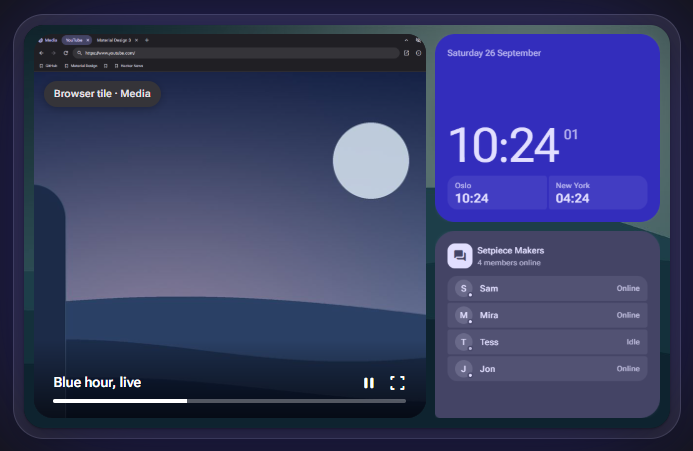
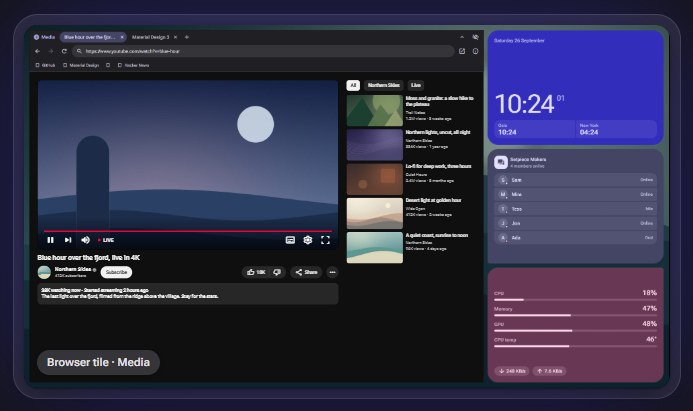
Rebuild the fullscreen demo at real 1080p scale
The demo mixed scales: the browser toolbar was shrunk while widgets were
blown up. It is now a 1920 x 1080 desktop laid out in real pixels (16px
margin, 12px gaps) and scaled as one piece, with the toolbar and widgets
captured at their exact tile sizes. The browser tile shows a video watch
page in the familiar YouTube layout, and going fullscreen letterboxes the
player inside the tile or across the display. Labels are smaller and no
longer cover content; README stills are regenerated.

diff --git a/docs/site.css b/docs/site.css
@@ -178,48 +178,97 @@ section { position: relative; }
 .checks strong { color: var(--on-surface); }
 .checks .ms { flex-shrink: 0; display: grid; place-items: center; width: 40px; height: 40px; border-radius: var(--shape-md); background: var(--secondary-container); color: var(--on-secondary-container); font-size: 20px; }
 
-/* The fullscreen demo. Geometry is in % of a 16:10 monitor; see site.js for the states. */
+/* The fullscreen demo: a 1920 x 1080 desktop laid out in real pixels (so the toolbar,
+   widgets and page are all at true 1080p size) and scaled as one piece by site.js. */
 .demo { margin: 0; }
 .monitor {
-  position: relative; aspect-ratio: 16 / 10; overflow: hidden; border-radius: 20px;
-  background: var(--surface-lowest); box-shadow: var(--shadow), var(--glow), 0 0 0 10px var(--surface-high), 0 0 0 11px var(--outline-variant);
-  margin: 11px;
-  container-type: inline-size;
+  --scale: .34;
+  position: relative; aspect-ratio: 16 / 9; overflow: hidden; border-radius: 14px; margin: 11px;
+  background: #000;
+  box-shadow: var(--shadow), var(--glow), 0 0 0 10px var(--surface-high), 0 0 0 11px var(--outline-variant);
 }
-.desk { position: absolute; inset: 0; background: url('assets/fjord-glass.jpg') center / cover; }
-.desk::after { content: ''; position: absolute; inset: 0; background: rgb(0 0 0 / .28); }
-.tile { position: absolute; overflow: hidden; }
-.t-browser { left: 1.5%; top: 2.4%; width: 60.7%; height: 95.2%; border-radius: 3cqi; background: var(--surface-container); }
-.t-browser .toolbar { width: 100%; }
-.t-clock, .t-chat { left: 63.7%; width: 34.8%; height: 46.4%; display: grid; place-items: center; }
-.t-clock { top: 2.4%; }
-.t-chat { top: 51.2%; }
-.t-clock img, .t-chat img { width: 100%; height: 100%; object-fit: contain; }
-.video {
-  --top: 11.8%; --left: 1.5%; --width: 60.7%; --height: 85.8%; --radius: 0 0 3cqi 3cqi;
-  position: absolute; top: var(--top); left: var(--left); width: var(--width); height: var(--height); z-index: 5;
-  overflow: hidden; border-radius: var(--radius); background: #000;
-  transition: top .65s var(--spatial), left .65s var(--spatial), width .65s var(--spatial), height .65s var(--spatial), border-radius .65s var(--spatial);
+.stage { position: absolute; left: 0; top: 0; width: 1920px; height: 1080px; transform: scale(var(--scale)); transform-origin: 0 0; font-family: Roboto, var(--font); }
+.desk { position: absolute; inset: 0; background: url('assets/desk-fjord-glass.jpg') center / cover; }
+.desk::after { content: ''; position: absolute; inset: 0; background: rgb(0 0 0 / .3); }
+.win { position: absolute; display: block; max-width: none; }
+.browser { left: 16px; top: 16px; width: 1352px; height: 1048px; overflow: hidden; background: #0f0f0f; color: #f1f1f1; }
+.browser .toolbar { width: 1352px; height: 124px; max-width: none; }
+.w-clock, .w-chat, .w-system { left: 1380px; width: 524px; }
+.w-clock { top: 16px; height: 341px; }
+.w-chat { top: 369px; height: 341px; }
+.w-system { top: 722px; height: 342px; }
+
+/* A video site watch page, in the style people know from YouTube. */
+.watch { display: flex; gap: 24px; padding: 24px 24px 0; height: 924px; overflow: hidden; }
+.primary { width: 896px; flex-shrink: 0; }
+.player-slot { width: 896px; height: 504px; border-radius: 12px; background: #000; }
+.watch-title { margin: 12px 0 8px; font-size: 20px; line-height: 28px; font-weight: 700; }
+.channel-row { display: flex; align-items: center; gap: 12px; }
+.avatar { width: 40px; height: 40px; border-radius: 50%; object-fit: cover; max-width: none; }
+.channel { display: flex; flex-direction: column; line-height: 1.3; }
+.channel strong { font-size: 16px; display: flex; align-items: center; gap: 4px; }
+.channel span { font-size: 12px; color: #aaa; }
+.verified { font-size: 14px; color: #aaa; }
+.spacer { flex: 1; }
+.pill { display: inline-flex; align-items: center; gap: 6px; height: 36px; padding: 0 16px; border-radius: 18px; background: rgb(255 255 255 / .1); font-size: 14px; font-weight: 500; white-space: nowrap; }
+.pill .ms { font-size: 22px; }
+.pill i { width: 1px; height: 24px; margin: 0 6px; background: rgb(255 255 255 / .2); }
+.pill.solid, .pill.active { background: #f1f1f1; color: #0f0f0f; }
+.pill.round { width: 36px; padding: 0; justify-content: center; }
+.description { margin-top: 12px; padding: 12px; border-radius: 12px; background: rgb(255 255 255 / .1); font-size: 14px; line-height: 20px; }
+.up-next { flex: 1; display: flex; flex-direction: column; gap: 8px; min-width: 0; }
+.chips-row { display: flex; gap: 12px; margin-bottom: 4px; }
+.chips-row .pill { height: 32px; padding: 0 12px; border-radius: 8px; }
+.rec { display: flex; gap: 8px; }
+.rec img { width: 168px; height: 94px; border-radius: 8px; object-fit: cover; flex-shrink: 0; max-width: none; }
+.rec div { display: flex; flex-direction: column; min-width: 0; font-size: 12px; line-height: 18px; color: #aaa; }
+.rec strong { margin-bottom: 4px; color: #f1f1f1; font-size: 14px; line-height: 20px; font-weight: 500; display: -webkit-box; -webkit-line-clamp: 2; -webkit-box-orient: vertical; overflow: hidden; }
+/* Light theme for the page, whether chosen by the toggle or by the system. */
+:root[data-theme='light'] .browser { background: #fff; color: #0f0f0f; }
+:root[data-theme='light'] .pill, :root[data-theme='light'] .description { background: rgb(0 0 0 / .05); }
+:root[data-theme='light'] .pill.solid, :root[data-theme='light'] .pill.active { background: #0f0f0f; color: #fff; }
+:root[data-theme='light'] .rec strong { color: #0f0f0f; }
+:root[data-theme='light'] .rec div, :root[data-theme='light'] .channel span { color: #606060; }
+@media (prefers-color-scheme: light) {
+  :root:not([data-theme='dark']) .browser { background: #fff; color: #0f0f0f; }
+  :root:not([data-theme='dark']) .pill, :root:not([data-theme='dark']) .description { background: rgb(0 0 0 / .05); }
+  :root:not([data-theme='dark']) .pill.solid, :root:not([data-theme='dark']) .pill.active { background: #0f0f0f; color: #fff; }
+  :root:not([data-theme='dark']) .rec strong { color: #0f0f0f; }
+  :root:not([data-theme='dark']) .rec div, :root:not([data-theme='dark']) .channel span { color: #606060; }
 }
-.demo[data-fullscreen='true'][data-contained='true'] .video { --top: 2.4%; --height: 95.2%; --radius: 3cqi; }
-.demo[data-fullscreen='true'][data-contained='false'] .video { --top: 0%; --left: 0%; --width: 100%; --height: 100%; --radius: 0; }
-.frame { position: absolute; inset: 0; background: url('assets/blue-hour.jpg') center / cover; transform: scale(1.02); }
-.demo[data-fullscreen='true'] .frame { animation: drift 16s ease-in-out infinite alternate; }
-@keyframes drift { from { transform: scale(1.02) translateX(0); } to { transform: scale(1.12) translateX(-3%); } }
-.video-ui { position: absolute; left: 0; right: 0; bottom: 0; display: grid; grid-template-columns: 1fr auto; gap: .8cqi 2cqi; align-items: center; padding: 5cqi 3cqi 2.4cqi; background: linear-gradient(transparent, rgb(0 0 0 / .65)); color: #fff; }
-.video-title { font-size: 2.1cqi; font-weight: 600; }
-.video-bar { grid-column: 1 / -1; grid-row: 2; height: .55cqi; border-radius: 1cqi; background: rgb(255 255 255 / .3); overflow: hidden; }
-.video-bar i { display: block; width: 38%; height: 100%; background: #fff; }
-.demo[data-fullscreen='true'] .video-bar i { animation: progress 16s linear infinite; }
-@keyframes progress { from { width: 38%; } to { width: 72%; } }
-.video-controls { display: flex; gap: 1.6cqi; grid-row: 1; grid-column: 2; }
-.video-controls .ms { font-size: 2.8cqi; }
-.tag { position: absolute; z-index: 6; padding: .7cqi 1.6cqi; border-radius: 99px; background: var(--surface-highest); color: var(--on-surface); font-size: 1.6cqi; font-weight: 600; box-shadow: 0 2px 8px rgb(0 0 0 / .25); transition: opacity .3s var(--effects), transform .5s var(--spatial-fast); }
-.tag-tile { left: 3%; top: 14%; }
-.tag-widgets { right: 3%; bottom: 5%; background: var(--primary); color: var(--on-primary); opacity: 0; transform: scale(.8); }
+
+/* The player moves between three rectangles: in the page, the tile, and the whole display. */
+.player {
+  --x: 40px; --y: 164px; --w: 896px; --h: 504px; --r: 12px;
+  position: absolute; left: var(--x); top: var(--y); width: var(--w); height: var(--h); z-index: 5;
+  overflow: hidden; border-radius: var(--r); background: #000; color: #fff;
+  transition: left .7s var(--spatial), top .7s var(--spatial), width .7s var(--spatial), height .7s var(--spatial), border-radius .7s var(--spatial);
+}
+.demo[data-fullscreen='true'][data-contained='true'] .player { --x: 16px; --y: 16px; --w: 1352px; --h: 1048px; --r: 0px; }
+.demo[data-fullscreen='true'][data-contained='false'] .player { --x: 0px; --y: 0px; --w: 1920px; --h: 1080px; --r: 0px; }
+.player .video { position: absolute; inset: 0; width: 100%; height: 100%; max-width: none; object-fit: contain; }
+.demo[data-fullscreen='true'] .player .video { animation: drift 20s ease-in-out infinite alternate; }
+@keyframes drift { from { transform: scale(1); } to { transform: scale(1.06); } }
+.player-top { position: absolute; left: 0; right: 0; top: 0; display: flex; flex-direction: column; gap: 2px; padding: 24px 28px 48px; background: linear-gradient(rgb(0 0 0 / .6), transparent); opacity: 0; transition: opacity .3s var(--effects); }
+.player-top strong { font-size: 22px; font-weight: 500; }
+.player-top span { font-size: 15px; color: rgb(255 255 255 / .75); }
+.demo[data-fullscreen='true'] .player-top { opacity: 1; }
+.player-bottom { position: absolute; left: 0; right: 0; bottom: 0; padding: 40px 16px 4px; background: linear-gradient(transparent, rgb(0 0 0 / .7)); }
+.scrub { height: 4px; margin: 0 4px; background: rgb(255 255 255 / .3); }
+.scrub i { display: block; width: 100%; height: 100%; background: #f03; }
+.controls { display: flex; align-items: center; gap: 22px; height: 48px; padding: 0 8px; }
+.controls .ms { font-size: 30px; }
+.demo[data-fullscreen='true'] .controls .ms { font-size: 34px; }
+.live { display: inline-flex; align-items: center; gap: 8px; font-size: 15px; font-weight: 600; }
+.live i { width: 8px; height: 8px; border-radius: 50%; background: #f03; }
+
+/* Labels sit outside the scaled stage so they stay readable. */
+.tag { position: absolute; z-index: 6; padding: 4px 10px; border-radius: 99px; background: var(--surface-highest); color: var(--on-surface); font-size: 11px; font-weight: 600; box-shadow: 0 2px 8px rgb(0 0 0 / .25); white-space: nowrap; transition: opacity .3s var(--effects), transform .5s var(--spatial-fast); }
+.tag-tile { left: 2%; bottom: 3.5%; }
+.tag-widgets { right: 2%; bottom: 3.5%; background: var(--primary); color: var(--on-primary); opacity: 0; transform: scale(.8); }
 .demo[data-fullscreen='true'][data-contained='true'] .tag-widgets { opacity: 1; transform: none; }
 .demo[data-fullscreen='true'] .tag-tile { opacity: 0; }
-.demo[data-contained='false'] .tag { opacity: 0; }
+.demo[data-contained='false'][data-fullscreen='true'] .tag { opacity: 0; }
 
 .demo-controls { display: flex; flex-wrap: wrap; align-items: center; gap: 16px 24px; margin-top: 28px; padding-inline: 11px; }
 .demo-status { flex-basis: 100%; color: var(--on-surface-variant); min-height: 1.6em; }

diff --git a/docs/index.html b/docs/index.html
@@ -18,7 +18,7 @@
   <link rel="preconnect" href="https://fonts.googleapis.com">
   <link rel="preconnect" href="https://fonts.gstatic.com" crossorigin>
   <link rel="stylesheet" href="https://fonts.googleapis.com/css2?family=Roboto+Flex:opsz,wdth,wght@8..144,25..151,100..1000&amp;display=swap">
-  <link rel="stylesheet" href="https://fonts.googleapis.com/css2?family=Material+Symbols+Rounded:opsz,wght,FILL,GRAD@20..48,400,0..1,0&amp;icon_names=add,bookmarks,check,content_copy,dark_mode,dashboard_customize,desktop_windows,drag_pan,fullscreen,fullscreen_exit,language,light_mode,lock,monitor,open_in_new,palette,pause,play_arrow,restart_alt,settings,shield,space_dashboard,sports_esports,swap_horiz,tab,tune,widgets&amp;display=block">
+  <link rel="stylesheet" href="https://fonts.googleapis.com/css2?family=Material+Symbols+Rounded:opsz,wght,FILL,GRAD@20..48,400,0..1,0&amp;icon_names=add,bookmarks,check,check_circle,content_copy,dark_mode,dashboard_customize,desktop_windows,drag_pan,fullscreen,fullscreen_exit,language,light_mode,lock,monitor,more_horiz,open_in_new,palette,pause,play_arrow,restart_alt,settings,share,shield,skip_next,space_dashboard,sports_esports,subtitles,swap_horiz,tab,thumb_down,thumb_up,tune,volume_up,widgets&amp;display=block">
   <link rel="stylesheet" href="site.css">
   <script>
     // Apply ?theme=, or a saved choice, before paint. The page follows the system otherwise.
@@ -129,30 +129,69 @@
       </div>
 
       <figure class="demo" id="fullscreen-demo" data-fullscreen="false" data-contained="true">
-        <div class="monitor" aria-hidden="true">
-          <div class="desk"></div>
-          <div class="tile t-browser"><img class="toolbar only-dark" src="screenshots/dark-toolbar.png" alt=""><img class="toolbar only-light" src="screenshots/light-toolbar.png" alt=""></div>
-          <div class="tile t-clock"><img class="only-dark" src="screenshots/widgets/dark-clock.png" alt="" loading="lazy"><img class="only-light" src="screenshots/widgets/light-clock.png" alt="" loading="lazy"></div>
-          <div class="tile t-chat"><img class="only-dark" src="screenshots/widgets/dark-discord.png" alt="" loading="lazy"><img class="only-light" src="screenshots/widgets/light-discord.png" alt="" loading="lazy"></div>
-          <div class="video">
-            <div class="frame"></div>
-            <div class="video-ui">
-              <span class="video-title">Blue hour, live</span>
-              <span class="video-bar"><i></i></span>
-              <span class="video-controls"><span class="ms filled">pause</span><span class="ms video-fs">fullscreen</span></span>
+        <div class="monitor">
+          <!-- A 1920 × 1080 desktop at real pixel sizes, scaled to fit by site.js. Setpiece defaults: 16px margin, 12px gaps. -->
+          <div class="stage" aria-hidden="true">
+            <div class="desk"></div>
+            <div class="win browser">
+              <img class="toolbar only-dark" src="screenshots/demo/dark-toolbar.png" width="1352" height="124" alt="">
+              <img class="toolbar only-light" src="screenshots/demo/light-toolbar.png" width="1352" height="124" alt="">
+              <div class="watch">
+                <div class="primary">
+                  <div class="player-slot"></div>
+                  <h4 class="watch-title">Blue hour over the fjord, live in 4K</h4>
+                  <div class="channel-row">
+                    <img class="avatar" src="assets/thumb-quiet-coast.jpg" alt="">
+                    <div class="channel"><strong>Northern Skies <span class="ms filled verified">check_circle</span></strong><span>412K subscribers</span></div>
+                    <span class="pill solid">Subscribe</span>
+                    <span class="spacer"></span>
+                    <span class="pill"><span class="ms">thumb_up</span>18K<i></i><span class="ms">thumb_down</span></span>
+                    <span class="pill"><span class="ms">share</span>Share</span>
+                    <span class="pill round"><span class="ms">more_horiz</span></span>
+                  </div>
+                  <div class="description"><strong>38K watching now · Started streaming 2 hours ago</strong><p>The last light over the fjord, filmed from the ridge above the village. Stay for the stars.</p></div>
+                </div>
+                <div class="up-next">
+                  <div class="chips-row"><span class="pill active">All</span><span class="pill">Northern Skies</span><span class="pill">Live</span></div>
+                  <div class="rec"><img src="assets/thumb-moss-geometry.jpg" alt=""><div><strong>Moss and granite: a slow hike to the plateau</strong><span>Trail Notes</span><span>1.2M views · 3 weeks ago</span></div></div>
+                  <div class="rec"><img src="assets/thumb-violet-current.jpg" alt=""><div><strong>Northern lights, uncut, all night</strong><span>Northern Skies</span><span>884K views · 1 year ago</span></div></div>
+                  <div class="rec"><img src="assets/thumb-ember-grid.jpg" alt=""><div><strong>Lo-fi for deep work, three hours</strong><span>Quiet Hours</span><span>2.4M views · 5 months ago</span></div></div>
+                  <div class="rec"><img src="assets/thumb-paper-horizon.jpg" alt=""><div><strong>Desert light at golden hour</strong><span>Wide Open</span><span>412K views · 2 weeks ago</span></div></div>
+                  <div class="rec"><img src="assets/thumb-quiet-coast.jpg" alt=""><div><strong>A quiet coast, sunrise to noon</strong><span>Northern Skies</span><span>96K views · 4 days ago</span></div></div>
+                </div>
+              </div>
+            </div>
+            <img class="win w-clock only-dark" src="screenshots/demo/dark-clock.png" width="524" height="341" alt="">
+            <img class="win w-clock only-light" src="screenshots/demo/light-clock.png" width="524" height="341" alt="">
+            <img class="win w-chat only-dark" src="screenshots/demo/dark-discord.png" width="524" height="341" alt="">
+            <img class="win w-chat only-light" src="screenshots/demo/light-discord.png" width="524" height="341" alt="">
+            <img class="win w-system only-dark" src="screenshots/demo/dark-system.png" width="524" height="342" alt="">
+            <img class="win w-system only-light" src="screenshots/demo/light-system.png" width="524" height="342" alt="">
+            <div class="player">
+              <img class="video" src="assets/video-blue-hour.jpg" alt="">
+              <div class="player-top"><strong>Blue hour over the fjord, live in 4K</strong><span>Northern Skies</span></div>
+              <div class="player-bottom">
+                <div class="scrub"><i></i></div>
+                <div class="controls">
+                  <span class="ms filled">pause</span><span class="ms filled">skip_next</span><span class="ms filled">volume_up</span>
+                  <span class="live"><i></i>LIVE</span>
+                  <span class="spacer"></span>
+                  <span class="ms">subtitles</span><span class="ms">settings</span><span class="ms fs-icon">fullscreen</span>
+                </div>
+              </div>
             </div>
           </div>
           <span class="tag tag-tile">Browser tile · Media</span>
           <span class="tag tag-widgets">Widgets keep running</span>
         </div>
         <figcaption class="demo-controls">
-          <button class="button filled" id="demo-play" type="button" aria-pressed="false"><span class="ms" aria-hidden="true">fullscreen</span><span class="label">Play fullscreen</span></button>
+          <button class="button filled" id="demo-play" type="button" aria-pressed="false"><span class="ms" aria-hidden="true">fullscreen</span><span class="label">Go fullscreen</span></button>
           <label class="switch">
             <input type="checkbox" id="demo-contain" role="switch" checked>
             <span class="track" aria-hidden="true"><span class="handle"><span class="ms">check</span></span></span>
             Keep fullscreen inside the tile
           </label>
-          <p class="demo-status" id="demo-status" aria-live="polite">Press play to go fullscreen. The video stays inside its tile.</p>
+          <p class="demo-status" id="demo-status" aria-live="polite">A live stream in a browser tile on a 1080p display. Go fullscreen: it stays inside its tile.</p>
         </figcaption>
       </figure>
     </section>

diff --git a/docs/site.js b/docs/site.js
@@ -83,11 +83,11 @@ function paintDemo() {
   demo.dataset.contained = String(contained);
   play.setAttribute('aria-pressed', String(full));
   play.querySelector('.ms').textContent = full ? 'fullscreen_exit' : 'fullscreen';
-  play.querySelector('.label').textContent = full ? 'Exit fullscreen' : 'Play fullscreen';
-  demo.querySelector('.video-fs').textContent = full ? 'fullscreen_exit' : 'fullscreen';
+  play.querySelector('.label').textContent = full ? 'Exit fullscreen' : 'Go fullscreen';
+  demo.querySelector('.fs-icon').textContent = full ? 'fullscreen_exit' : 'fullscreen';
   status.textContent = !full
-    ? (contained ? 'Press play to go fullscreen. The video stays inside its tile.' : 'Press play to see ordinary fullscreen, which takes over the whole monitor.')
-    : (contained ? 'Fullscreen, inside the tile. The clock and your chat are still right there.' : 'Ordinary fullscreen: the video covers every tile on the monitor.');
+    ? (contained ? 'A live stream in a browser tile on a 1080p display. Go fullscreen: it stays inside its tile.' : 'With the switch off, fullscreen works as usual and takes over the whole display.')
+    : (contained ? 'Fullscreen inside the tile. The toolbar and page make way for the video, and your clock, chat and system stats stay in view.' : 'Ordinary fullscreen: the video covers every tile on the display.');
 }
 play.addEventListener('click', () => { demo.dataset.fullscreen = String(demo.dataset.fullscreen !== 'true'); paintDemo(); });
 contain.addEventListener('change', paintDemo);
@@ -95,6 +95,9 @@ contain.addEventListener('change', paintDemo);
 const start = new URLSearchParams(location.search).get('demo');
 if (start === 'full' || start === 'free') { demo.dataset.fullscreen = 'true'; contain.checked = start === 'full'; }
 paintDemo();
+// The stage is a real 1920 x 1080 desktop; scale it to whatever width the monitor frame has.
+const monitor = demo.querySelector('.monitor');
+new ResizeObserver(() => monitor.style.setProperty('--scale', String(monitor.clientWidth / 1920))).observe(monitor);
 
 /* Accent preview */
 const swatches = [...document.querySelectorAll('[data-accent]')];

diff --git a/UI/src/dev/mock.ts b/UI/src/dev/mock.ts
@@ -31,7 +31,7 @@ export function installMock(){
   let preferences={...defaultAppearance,mode:query.get('mode')==='light'?'light':'dark',accent:accent&&/^[0-9a-f]{6}$/i.test(accent)?'#'+accent:defaultAppearance.accent};
   let note='Pick up the new keyboard switches.\nCall Mira about the reveal.';
   let game={salvage:140,level:3,armor:1,power:2,engine:0,last:Date.now()-45*60000};
-  const browserState={name:query.get('browser')??'Media',selected:'t1',tabs:[{id:'t1',title:'YouTube',url:'https://www.youtube.com/'},{id:'t2',title:'Material Design 3',url:'https://m3.material.io/'}],url:'https://www.youtube.com/',pinned:true,back:true,forward:false,extension:'uBlock Origin Lite 2025.1',runtime:'140.0.3485.54'};
+  const browserState={name:query.get('browser')??'Media',selected:'t1',tabs:[{id:'t1',title:'Blue hour over the fjord, live - YouTube',url:'https://www.youtube.com/watch?v=blue-hour'},{id:'t2',title:'Material Design 3',url:'https://m3.material.io/'}],url:'https://www.youtube.com/watch?v=blue-hour',pinned:true,back:true,forward:false,extension:'uBlock Origin Lite 2025.1',runtime:'140.0.3485.54'};
   const services=structuredClone(fixtures.services);
 
   const handlers:Record<string,(payload:any)=>unknown>={

diff --git a/README.md b/README.md
@@ -43,8 +43,8 @@ Turn on **Keep fullscreen inside the tile** for a browser tile, and fullscreen v
 
 <table>
   <tr>
-    <td width="33%"><picture><source media="(prefers-color-scheme: light)" srcset="docs/screenshots/fullscreen/fullscreen-light-tiled.png"><img src="docs/screenshots/fullscreen/fullscreen-dark-tiled.png" alt="A browser tile playing a video next to Clock and Discord widgets."></picture><br><b>Tiled.</b> A video in its browser tile.</td>
-    <td width="33%"><picture><source media="(prefers-color-scheme: light)" srcset="docs/screenshots/fullscreen/fullscreen-light-in-tile.png"><img src="docs/screenshots/fullscreen/fullscreen-dark-in-tile.png" alt="The video fullscreen, filling only its tile; the widgets remain visible."></picture><br><b>Fullscreen in the tile.</b> The rest of the desk stays.</td>
+    <td width="33%"><picture><source media="(prefers-color-scheme: light)" srcset="docs/screenshots/fullscreen/fullscreen-light-tiled.png"><img src="docs/screenshots/fullscreen/fullscreen-dark-tiled.png" alt="A 1080p desktop: a browser tile showing a video watch page, next to Clock, Discord and System widgets."></picture><br><b>Tiled.</b> A live stream in its browser tile on a 1080p display.</td>
+    <td width="33%"><picture><source media="(prefers-color-scheme: light)" srcset="docs/screenshots/fullscreen/fullscreen-light-in-tile.png"><img src="docs/screenshots/fullscreen/fullscreen-dark-in-tile.png" alt="The video fullscreen, filling only its tile; the three widgets remain visible."></picture><br><b>Fullscreen in the tile.</b> The rest of the desk stays.</td>
     <td width="33%"><picture><source media="(prefers-color-scheme: light)" srcset="docs/screenshots/fullscreen/fullscreen-light-whole-monitor.png"><img src="docs/screenshots/fullscreen/fullscreen-dark-whole-monitor.png" alt="Ordinary fullscreen, covering the whole monitor."></picture><br><b>Ordinary fullscreen.</b> Everything else is covered.</td>
   </tr>
 </table>

diff --git a/docs/screenshots/README.md b/docs/screenshots/README.md
@@ -5,6 +5,7 @@ Captured from the development preview (`?mock=1`), which runs the real Setpiece 
 - `dark-*.png`, `light-*.png`: the Studio, Widgets, widget setup dialog, Browsers, Appearance and Settings pages, the browser toolbar, and Scrapbots.
 - `accent-*.png`: Studio in the Sage, Ocean and Rose accents.
 - `widgets/`: each widget as its own transparent window, in both modes.
-- `fullscreen/`: the project page's fullscreen demo in three states: tiled, fullscreen inside the tile, and ordinary fullscreen.
+- `demo/`: the toolbar and three widgets captured at their exact tile sizes on a 1920 × 1080 display, used by the fullscreen demo.
+- `fullscreen/`: that demo in three states: tiled, fullscreen inside the tile, and ordinary fullscreen.
 
 See "Project page" in the repository README for the preview parameters.
